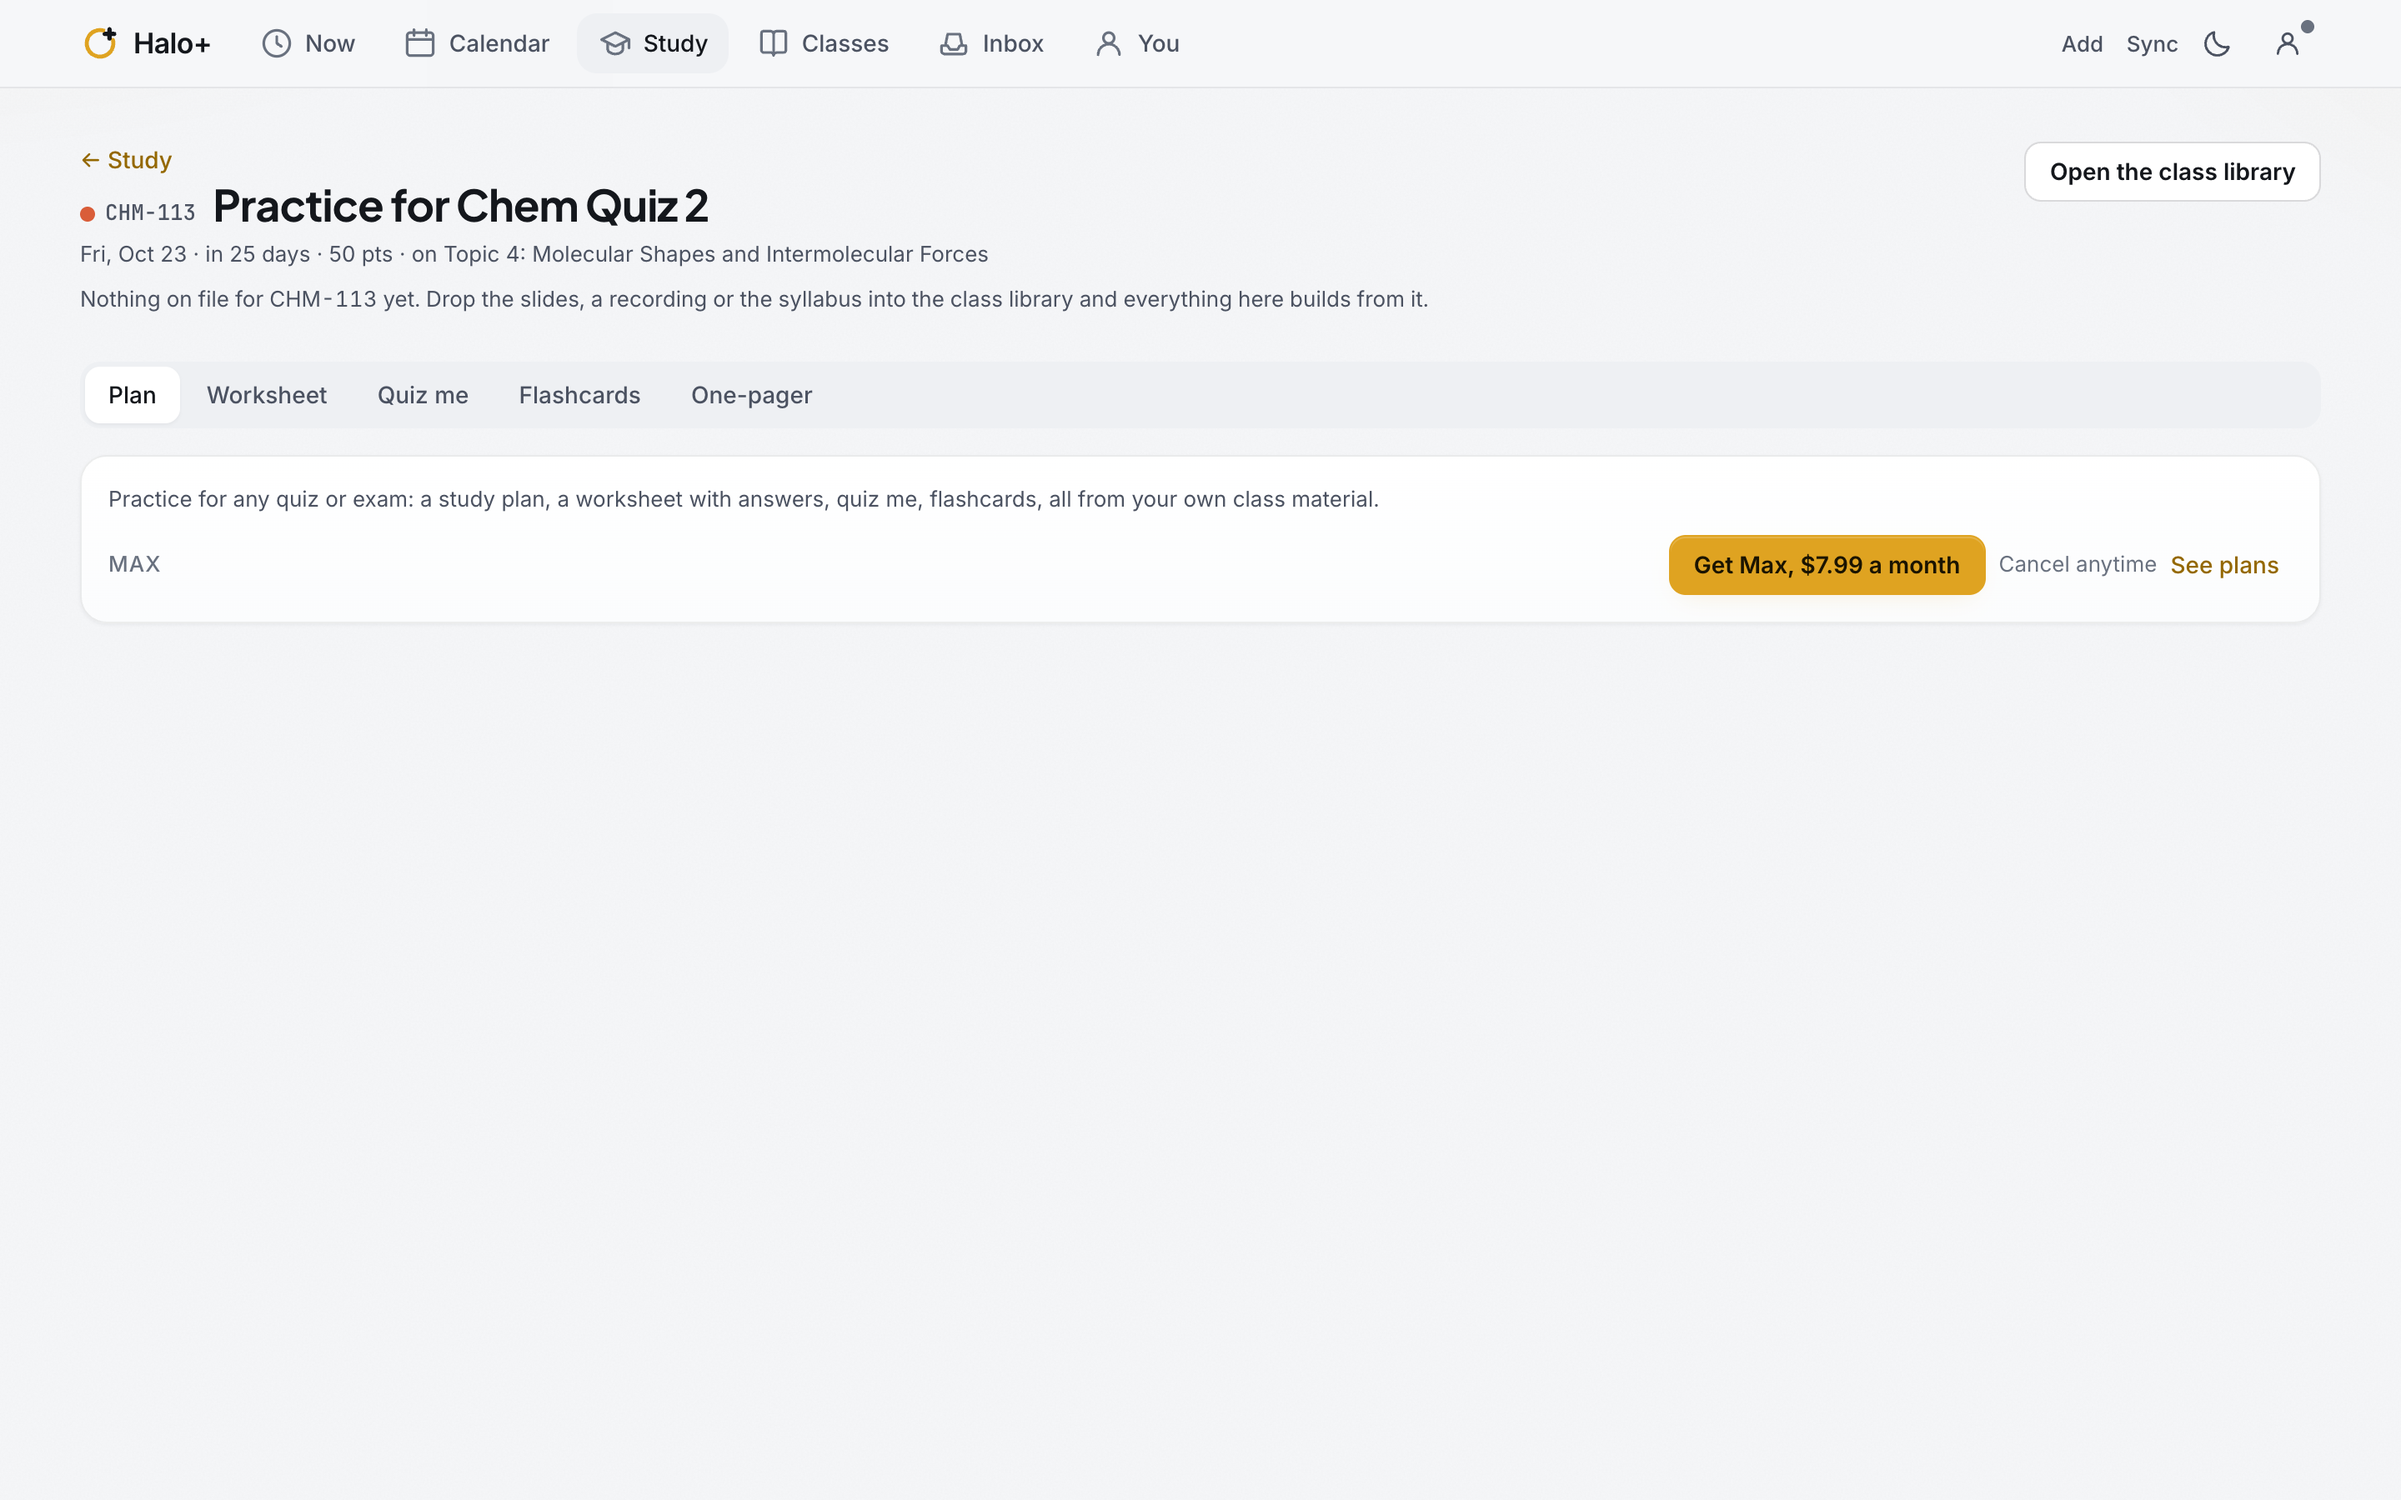
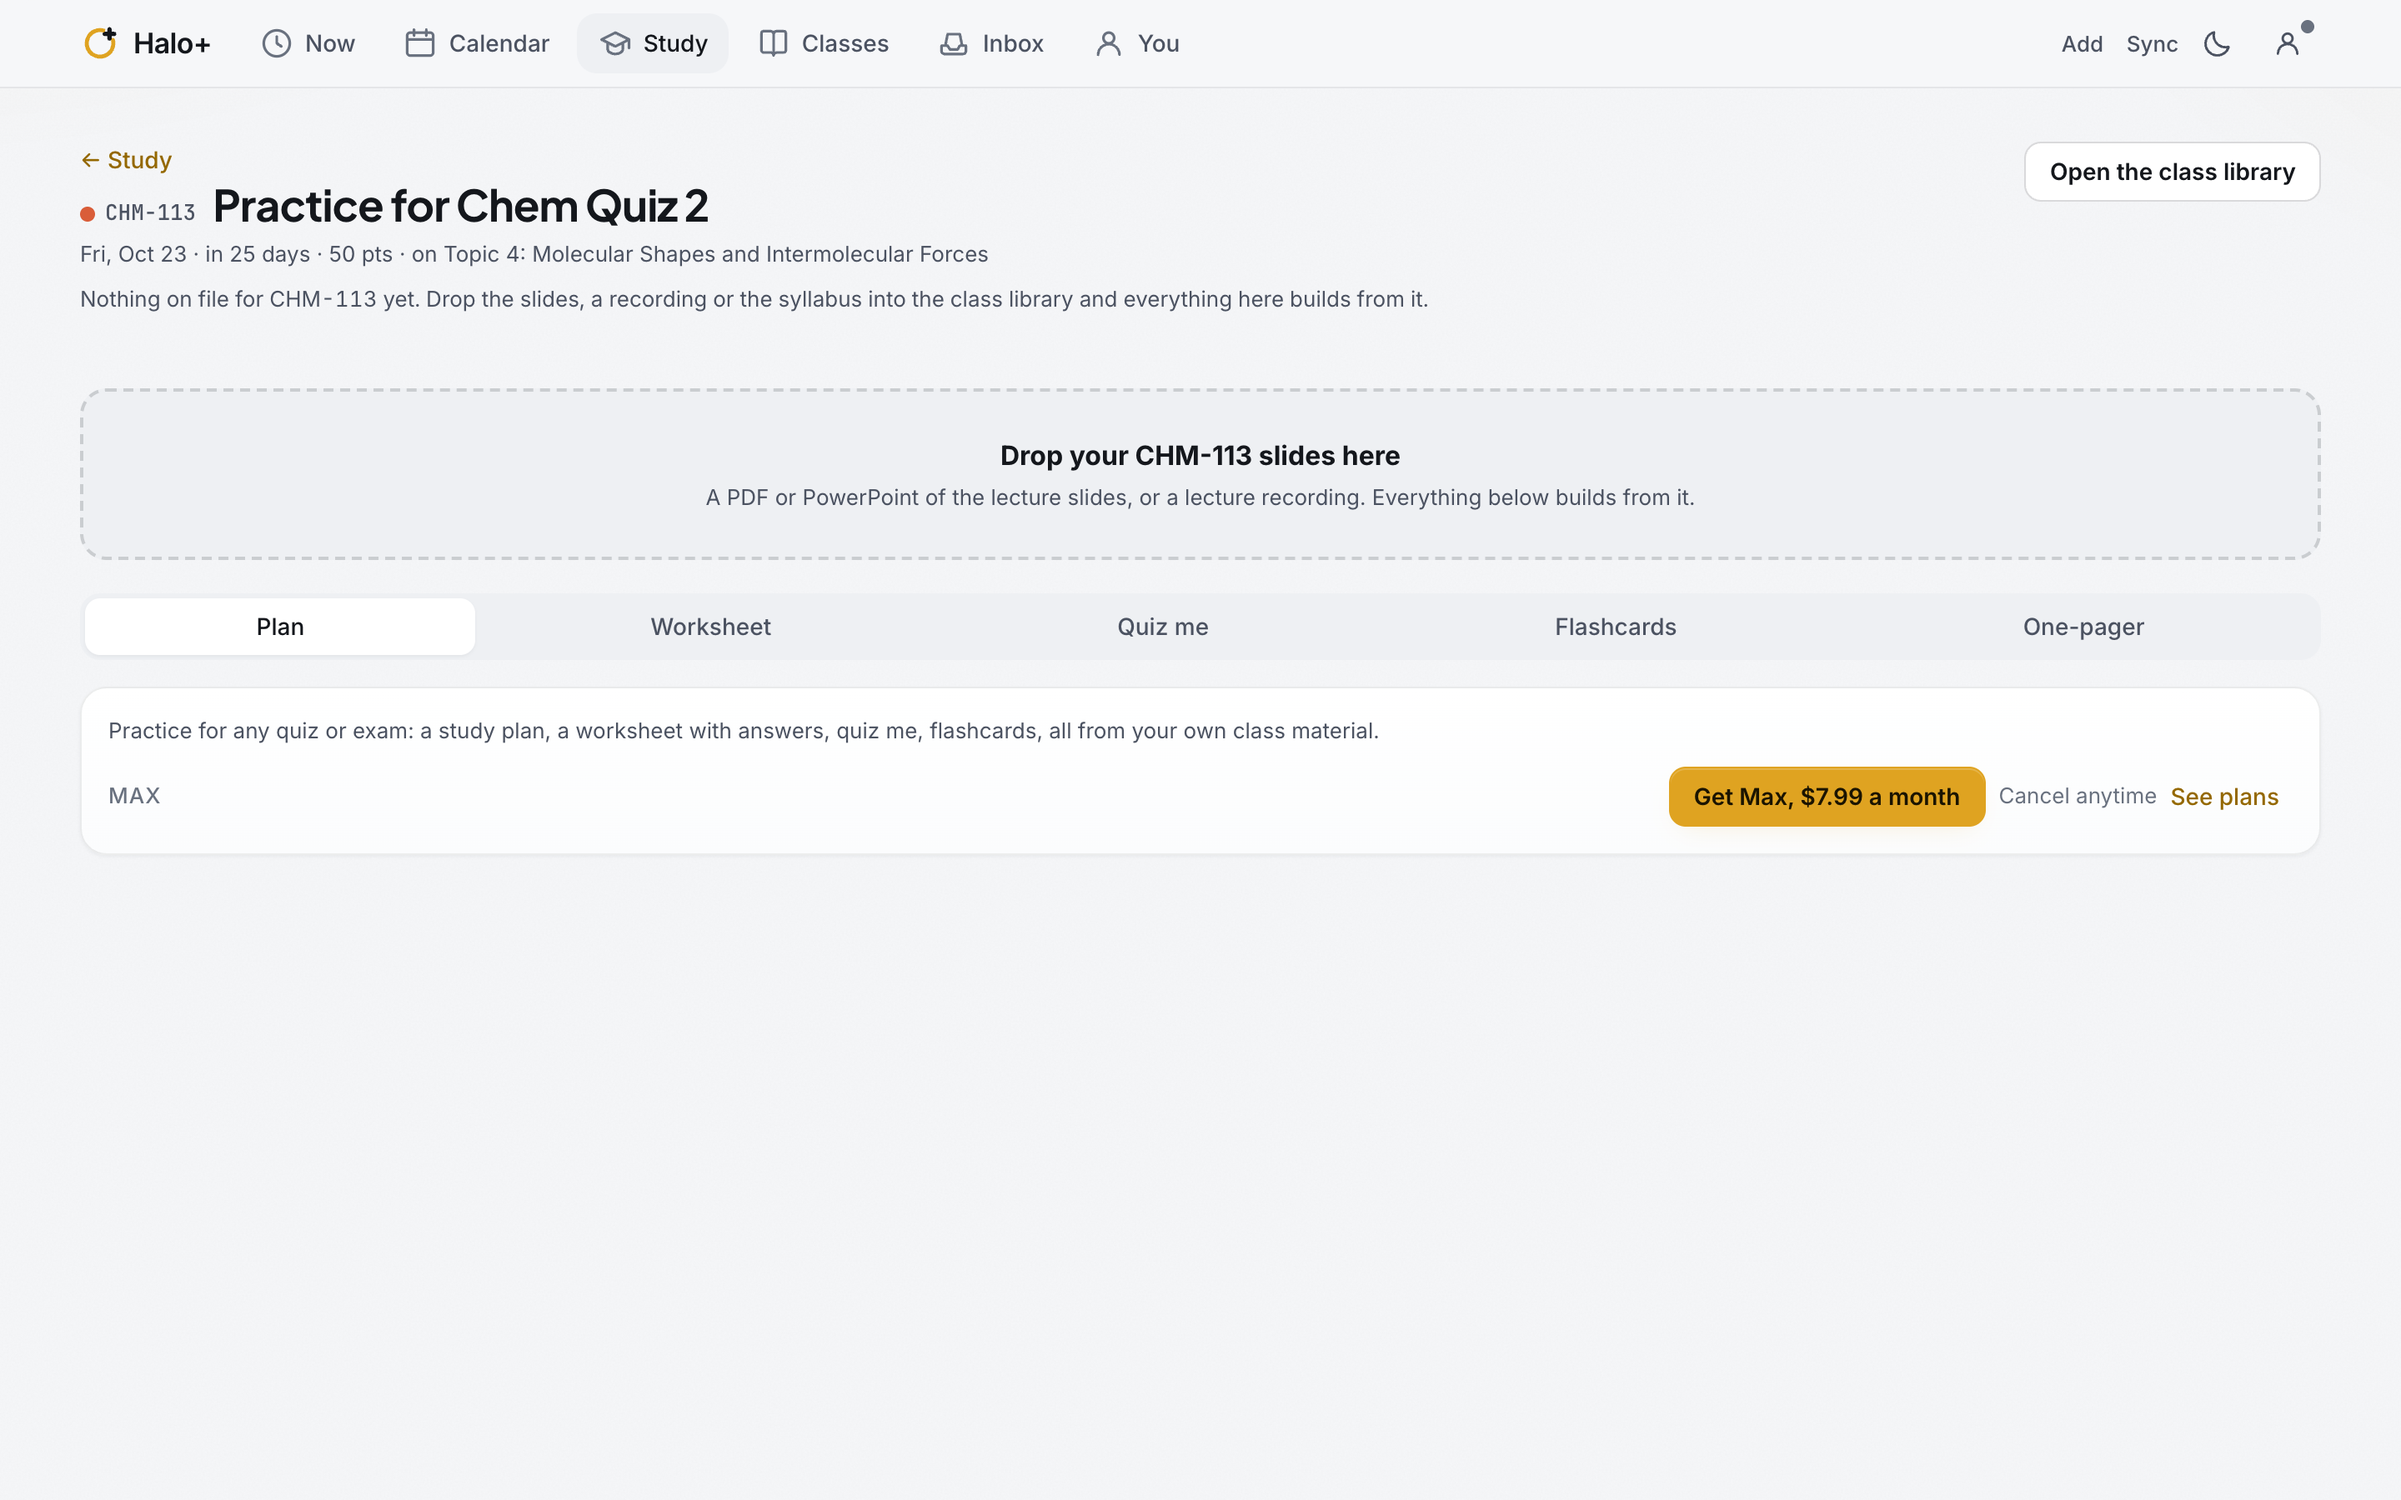
Loop 121: Practice takes the slides where it asks for them, naming the Halo files to fetch

diff --git a/src/views/Practice.tsx b/src/views/Practice.tsx
@@ -18,6 +18,10 @@ import { EMPTY_POOL, loadPool } from '../quiz/pool';
 import { gatherSources, type SourcePool } from '../quiz/sources';
 import { weakTopics } from '../quiz/stats';
 import { useRoute } from '../router';
+import { announceStores } from '../halo/announce';
+import { ingestFile } from '../library/ingest';
+import { studyFilesFor } from '../study/haloFiles';
+import { HALO_HOME } from '../domain/heroFacts';
 import { useStore } from '../storage/store';
 import { buildKit, kitHash, type KitKind, type StudyKit as Kit } from '../study/kits';
 import { topicCovered } from '../study/topic';
@@ -107,6 +111,7 @@ function ForCourse({ course, test, tab, topicParam, setTab, tier, today, tz }: {
   const { data, schedule, calibrate } = useStore();
   const allowed = useAiAllowed('flashcards');
   const [pool, setPool] = useState<SourcePool | null>(null);
+  const [reload, setReload] = useState(0);
   useEffect(() => {
     let live = true;
     loadPool(course.id)
@@ -115,7 +120,37 @@ function ForCourse({ course, test, tab, topicParam, setTab, tier, today, tz }: {
     return () => {
       live = false;
     };
-  }, [course.id]);
+  }, [course.id, reload]);
+  // What the professor posted in Halo, named so the student knows which file to fetch and drop here.
+  const [haloFiles, setHaloFiles] = useState<string[]>([]);
+  useEffect(() => {
+    let live = true;
+    announceStores
+      .resources()
+      .then((rs) => live && setHaloFiles(studyFilesFor(rs, course.id, test?.topic ?? '')))
+      .catch(() => undefined);
+    return () => {
+      live = false;
+    };
+  }, [course.id, test?.topic]);
+  const [dropNote, setDropNote] = useState<string | null>(null);
+  const [dropping, setDropping] = useState(false);
+  const drop = async (files: File[]) => {
+    setDropping(true);
+    setDropNote(null);
+    const lines: string[] = [];
+    for (const f of files) {
+      try {
+        const r = await ingestFile(f, course, tz, today);
+        lines.push(`${r.title}: ${r.detail}`);
+      } catch (e) {
+        lines.push(`${f.name}: ${e instanceof Error ? e.message : String(e)}`);
+      }
+    }
+    setDropNote(lines.join(' '));
+    setDropping(false);
+    setReload((k) => k + 1);
+  };
 
   // The topic: what was asked for, else the test's own; blank means the newest material.
   const ownTopics = test ? testTopics(test) : [];
@@ -163,6 +198,24 @@ function ForCourse({ course, test, tab, topicParam, setTab, tier, today, tz }: {
           </a>
         )}
       </div>
+
+      {pool && use.length === 0 && (
+        <label
+          className="sync-drop rec-import lib-drop practice-drop"
+          onDragOver={(e) => e.preventDefault()}
+          onDrop={(e) => {
+            e.preventDefault();
+            void drop(Array.from(e.dataTransfer.files));
+          }}
+        >
+          <input type="file" multiple accept=".pdf,.pptx,.txt,application/pdf,audio/*,.m4a,.mp3" className="visually-hidden" aria-label={`Drop ${course.code} slides here`} onChange={(e) => { void drop(Array.from(e.target.files ?? [])); e.target.value = ''; }} />
+          <b>{dropping ? 'Reading the file…' : `Drop your ${course.code} slides here`}</b>
+          <span className="hint">
+            {haloFiles.length ? <>Your professor posted {haloFiles.join(', ')} in Halo. Download one from <a className="diff-toggle" href={HALO_HOME} target="_blank" rel="noreferrer">Halo</a> and drop it here; everything below builds from it.</> : 'A PDF or PowerPoint of the lecture slides, or a lecture recording. Everything below builds from it.'}
+          </span>
+        </label>
+      )}
+      {dropNote && <p className="hint">{dropNote}</p>}
 
       <SegmentedControl label="Practice" value={tab} options={TABS} onChange={(v) => setTab(v)} />
 

diff --git a/src/study/haloFiles.ts b/src/study/haloFiles.ts
@@ -1,0 +1,22 @@
+import type { StoredResource } from '../halo/announce';
+
+const STUDY_FILE = /\.(pdf|pptx?|docx?)$/i;
+const STUDY_WORDS = /slides?|lecture|notes|review|study guide|practice|powerpoint|chapter|topic/i;
+
+/**
+ * The files the professor posted in Halo that could be dropped into Practice: slide decks, notes, study guides.
+ * The test's own unit first ("Topic 4"), then study-sounding titles. File names only; Halo+ never downloads them.
+ */
+export function studyFilesFor(resources: StoredResource[], courseId: string, unitHint = '', max = 4): string[] {
+  const hint = (/topic\s*\d+|unit\s*\d+|week\s*\d+|chapter\s*\d+/i.exec(unitHint)?.[0] ?? '').toLowerCase().replace(/\s+/g, ' ');
+  const scored: { name: string; score: number }[] = [];
+  for (const r of resources.filter((x) => x.courseId === courseId)) {
+    for (const f of r.files) {
+      if (!STUDY_FILE.test(f.name)) continue;
+      const where = `${r.unit ?? ''} ${r.title} ${f.name}`.toLowerCase().replace(/\s+/g, ' ');
+      const score = (hint && where.includes(hint) ? 4 : 0) + (STUDY_WORDS.test(`${r.title} ${f.name}`) ? 2 : 0) + (r.instructorAdded ? 1 : 0);
+      scored.push({ name: f.name, score });
+    }
+  }
+  return [...new Set(scored.sort((a, b) => b.score - a.score).map((s) => s.name))].slice(0, max);
+}

diff --git a/src/study/haloFiles.test.ts b/src/study/haloFiles.test.ts
@@ -1,0 +1,13 @@
+import { describe, expect, it } from 'vitest';
+import type { StoredResource } from '../halo/announce';
+import { studyFilesFor } from './haloFiles';
+
+const r = (title: string, unit: string | null, files: string[], courseId = 'chm'): StoredResource => ({ id: title, title, description: null, instructorAdded: false, unit, files: files.map((name, i) => ({ id: `${title}${i}`, name, kind: null, type: null })), courseId, pulledAt: 'x' });
+
+describe('Halo files worth dropping into Practice', () => {
+  it('puts the test’s own unit first, keeps only documents, and never another class', () => {
+    const list = [r('Syllabus', null, ['CHM113 Syllabus.pdf']), r('Topic 3 Slides', 'Topic 3', ['T3 Bonding.pptx']), r('Topic 4 Slides', 'Topic 4', ['T4 Shapes.pptx', 'lab.mp4']), r('Other', 'Topic 4', ['x.pdf'], 'eng')];
+    expect(studyFilesFor(list, 'chm', 'Topic 4: Molecular Shapes')).toEqual(['T4 Shapes.pptx', 'T3 Bonding.pptx', 'CHM113 Syllabus.pdf']);
+    expect(studyFilesFor([], 'chm')).toEqual([]);
+  });
+});

diff --git a/LOOP_LOG.md b/LOOP_LOG.md
@@ -144,3 +144,4 @@ One line per change, newest last. Proposals that need George's approval are mark
 - 2026-09-28 · Loop 118 · Phones: Practice's five tabs sat in one row that scrolled, and the fifth (One-pager) was off the edge with nothing to say so; the tabs now wrap to two rows on a phone, and Check's two modes the same (`styles/study.css`). Check's locked card also dropped the coach's "108 open things to ask about" preview, which read as the wrong feature there.
 - 2026-09-28 · Loop 119 · The new-student tour had three stops (Now, Calendar, Inbox) and never pointed at the tab that holds everything Max is for. A fourth stop, Study: "Practice for any quiz or exam from your own slides, ask anything about your classes, and check your work before you turn it in." Onboarding e2e on the real backend, desk-light, 13 checks, pass; its desk screens are refreshed with the new stop (the phone and dark sets keep their earlier numbering).
 - 2026-09-28 · Loop 120 · Printing the worksheet printed the problems and a one-line "Answers (the last page)" summary, because a closed <details> prints nothing but its summary; Print now opens the answers first (and closes them again after the dialog), so the paper copy ends with its answer page like the PDF does. The real-backend e2e checks the print view: answers open, controls hidden; desk-light, 37 checks, pass. The Web Store listing now names the Study tab.
+- 2026-09-28 · Loop 121 · Practice with nothing on file sent the student away to the library. It now takes the slides right there: a drop zone at the top ("Drop your CHM-113 slides here") that files them into the class and rebuilds the plan, worksheet and quiz in place, and names the files the professor posted in Halo for that test's unit ("Your professor posted T4 Shapes.pptx in Halo. Download one from Halo and drop it here"; `study/haloFiles.ts`, file names only, nothing downloaded).
